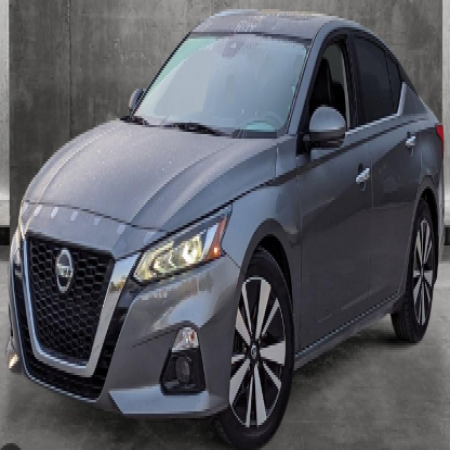
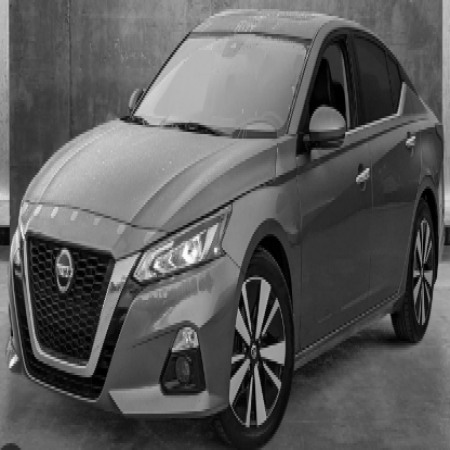
Merge origin/master
Conflicts:
	src/pkg380_project/PictureEditor.java

diff --git a/src/pkg380_project/PictureEditor.java b/src/pkg380_project/PictureEditor.java
@@ -382,6 +382,11 @@ public class PictureEditor extends javax.swing.JFrame {
         });
 
         jButton22.setText("Convert to binary using thresholding");
+        jButton22.addActionListener(new java.awt.event.ActionListener() {
+            public void actionPerformed(java.awt.event.ActionEvent evt) {
+                jButton22ActionPerformed(evt);
+            }
+        });
 
         jButton23.setText("Convert to HSV");
         jButton23.addActionListener(new java.awt.event.ActionListener() {
@@ -1464,23 +1469,15 @@ public class PictureEditor extends javax.swing.JFrame {
     private void jButton21ActionPerformed(java.awt.event.ActionEvent evt) {//GEN-FIRST:event_jButton21ActionPerformed
         //Convert To Gray Scale
         Pixel[] pixels = picObj.getPixels();
-        Pixel pixel;
-        int redCol, blueCol, greenCol;
         int avg;
-        Pixel[] pixelArr = picObj.getPixels();
-        for (int i = 0; i < pixels.length; i++) {
-            pixel = pixels[i];
-            redCol = pixel.getRed();
-            greenCol = pixel.getGreen();
-            blueCol = pixel.getBlue();
-            avg = (int) ((redCol + greenCol + blueCol) / 3);
+        for (Pixel pixel1 : pixels) {
+            avg = (int) ((pixel1.getRed() + pixel1.getGreen() + pixel1.getBlue()) / 3);
             Color grayColor = new Color(avg, avg, avg);
-            pixel.setColor(grayColor);
+            pixel1.setColor(grayColor);
         }
         Image img = (picObj.getImage()).getScaledInstance(jLabel2.getWidth(), jLabel2.getHeight(), Image.SCALE_SMOOTH);
         icon = new ImageIcon(img);
         jLabel2.setIcon(icon);
-
     }//GEN-LAST:event_jButton21ActionPerformed
 
     private void jButton24ActionPerformed(java.awt.event.ActionEvent evt) {//GEN-FIRST:event_jButton24ActionPerformed
@@ -1833,6 +1830,29 @@ public class PictureEditor extends javax.swing.JFrame {
     private void jButton48ActionPerformed(java.awt.event.ActionEvent evt) {//GEN-FIRST:event_jButton48ActionPerformed
         // TODO add your handling code here:
     }//GEN-LAST:event_jButton48ActionPerformed
+
+    private void jButton22ActionPerformed(java.awt.event.ActionEvent evt) {//GEN-FIRST:event_jButton22ActionPerformed
+        String threshold = JOptionPane.showInputDialog(null, "Please Enter the size: ");
+        Pixel[] pixels = picObj.getPixels();
+        int avg;
+        for (Pixel pixel1 : pixels) {
+            avg = (int) ((pixel1.getRed() + pixel1.getGreen() + pixel1.getBlue()) / 3);
+            Color grayColor = new Color(avg, avg, avg);
+            pixel1.setColor(grayColor);
+        }
+        int avar;
+        for (int x = 0; x < picObj.getWidth(); x++) {
+            for (int y = 0; y < picObj.getHeight(); y++) {
+                avar = (int) Math.abs(picObj.getPixel(x, y).getAverage());
+                if (avar < Integer.valueOf(threshold)) {
+                    picObj.getPixel(x, y).setColor(Color.BLACK);
+                }
+            }
+        }
+        Image img = (picObj.getImage()).getScaledInstance(jLabel2.getWidth(), jLabel2.getHeight(), Image.SCALE_SMOOTH);
+        icon = new ImageIcon(img);
+        jLabel2.setIcon(icon);
+    }//GEN-LAST:event_jButton22ActionPerformed
 
     /**
      * @param args the command line arguments
